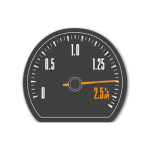
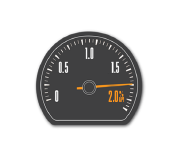
New Acceleration rate

Changed region(s): [[0.1333, 0.1867, 0.88, 0.8267]]

diff --git a/acceleration.html b/acceleration.html
@@ -71,7 +71,7 @@
             </div><!- row -->
 
             <div class="row spacer">
-            	<p>*Annual Percentage Yield accurate as of 8/1/16. Variable rate accounts and interest rates are subject to change. Fees may reduce earnings. Accounts closed within 6 months of opening date are subject to a $25.00 closing fee. Limit one Acceleration Checking and Acceleration Savings account per primary social security number. Acceleration Checking: Minimum balance to open account $100. Customer must initiate set up of e-statements through online banking, establish a monthly direct deposit and perform 12 debit card purchases each month to qualify and receive tiered rates and ATM surcharge refunds up to $12. Transactions may take one or more business days from the date transaction was made to post and clear the account. Checking account balances of $0.00-$10,000.00 (2.50% APY); $10,000.01 and above (.25% APY). If qualifications are not met, all funds in checking account earn .05% APY. If Acceleration Savings is also opened, interest earned on Acceleration Checking is automatically transferred to Acceleration Savings and then compounds at Acceleration Savings rates. Acceleration Savings: Account can only be opened in conjunction with Acceleration Checking Account. Savings account balances of $0.00-$10,000.00 (.50% APY); $10,000.01 and above (.25% APY). If qualifications of Acceleration Checking account are not met during the month, all funds in savings account earn .05% APY.</p>
+            	<p>*Annual Percentage Yield accurate as of 12/1/17. Variable rate accounts and interest rates are subject to change. Fees may reduce earnings. Accounts closed within 6 months of opening date are subject to a $25.00 closing fee. Limit one Acceleration Checking and Acceleration Savings account per primary social security number. Acceleration Checking: Minimum balance to open account $100. Customer must initiate set up of e-statements through online banking, establish a monthly direct deposit and perform 12 debit card purchases each month to qualify and receive tiered rates and ATM surcharge refunds up to $12. Transactions may take one or more business days from the date transaction was made to post and clear the account. Checking account balances of $0.00-$10,000.00 (2.00% APY); $10,000.01 and above (.15% APY). If qualifications are not met, all funds in checking account earn .025% APY. If Acceleration Savings is also opened, interest earned on Acceleration Checking is automatically transferred to Acceleration Savings and then compounds at Acceleration Savings rates. Acceleration Savings: Account can only be opened in conjunction with Acceleration Checking account. Savings account balances of $0.00-$10,000.00 (.35% APY); $10,000.01 and above (.15% APY). If qualifications of Acceleration Checking account are not met during the month, all funds in Savings account earn .025% APY.</p>
             </div><!-- row -->
           </div>
         </main>

diff --git a/mobile.html b/mobile.html
@@ -108,7 +108,7 @@
                 </ul>
                 <p>Online Banking customers: Simply download the CIBM Bank app from your smartphone or tablet and log in with your Online Banking User ID and Password.</p>
                 <a href="https://play.google.com/store/apps/details?id=com.fi8232.godough&hl=en" class="alertexit"><img src="img/google-play-logo.png" width="135" height="40" alt="Download Google Play App for CIBM Bank" /></a>
-                <a href="https://itunes.apple.com/us/app/cibm-bank-mobile-banking/id1033306293?mt=8 class="alertexit"><img src="img/download_AppStoreBadge.png" width="135" height="40" alt="Download CIBM Bank Mobile Banking from App Store" /></a>
+                <a href="https://itunes.apple.com/us/app/cibm-bank-mobile-banking/id1033306293?mt=8" class="alertexit"><img src="img/download_AppStoreBadge.png" width="135" height="40" alt="Download CIBM Bank Mobile Banking from App Store" /></a>
               </div>
             </div> <!--row -->
             <div class="row spacer">
